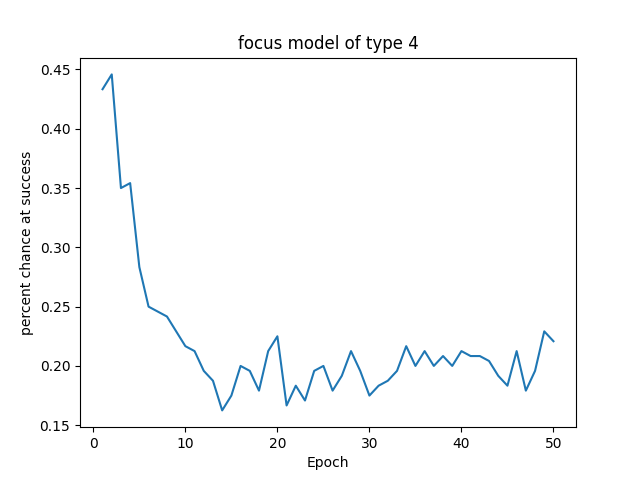
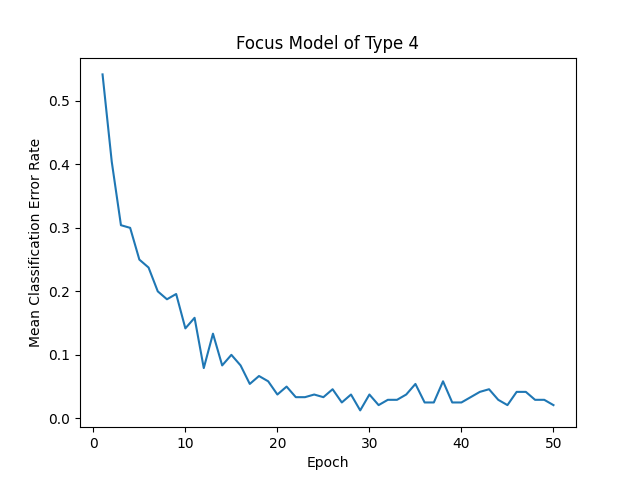
final

diff --git a/divaClasses.py b/divaClasses.py
@@ -1,8 +1,9 @@
 from datetime import timedelta
 from typing import Any, Self, Sequence, Type
-from pyClarion import (Supervised, LeastSquares, Priority, Site, Choice, MLP, Family, Train, Optimizer, Adam,
+from pyClarion import (NumDict, Supervised, LeastSquares, Priority, Site, Choice, MLP, Family, Tanh, Train, Optimizer, Adam,
                        Activation, Layer, Event, Process, ErrorSignal, Sort, Term)
 import sys
+import random
 type D = Family | Sort | Term
 type V = Family | Sort
 type DV = tuple[D, V]
@@ -20,11 +21,8 @@ class divaCost(Supervised):
     
     def update(self, dt: timedelta = timedelta(), priority: Priority=Priority.LEARNING) -> None:
         exp_mask = self.mask[0].exp()
-        if self.correct:
-            # input = self.input[0].mul(self.target[0].abs())
-            main = self.cost.grad(self.input[0], self.target[0], exp_mask)
-        else:
-            main = 0
+        # input = self.input[0].mul(self.target[0].abs())
+        main = self.cost.grad(self.input[0], self.target[0], exp_mask)
         self.system.schedule(self.update, self.main.update(main, grad=True), dt=dt, priority=priority)
 
 class Choose(Choice):
@@ -50,12 +48,14 @@ class Choose(Choice):
             k = Site(self.input.index, {}, max(c1.max()[''], c2.max()['']) - min(c1.min()[''], c2.min()['']))
             beta = Site(self.input.index, {}, 2)
             focus = ((c1.sub(c2)).abs().sub(k[0])).mul(beta[0]).exp()
-            diff1 = (c1.sub(self.input[0])).mul(focus).pow(x=2).sum()
-            diff2 = (c2.sub(self.input[0])).mul(focus).pow(x=2).sum()
+            diff1 = (c1.sub(self.input[0])).mul(focus).pow(x=2).sum()['']
+            diff2 = (c2.sub(self.input[0])).mul(focus).pow(x=2).sum()['']
         else:
-            diff1 = (c1.sub(self.input[0])).pow(x=2).sum()
-            diff2 = (c2.sub(self.input[0])).pow(x=2).sum()
-        decision = self.c1 if diff1[''] < diff2[''] else self.c2
+            diff1 = (c1.sub(self.input[0])).pow(x=2).sum()['']
+            diff2 = (c2.sub(self.input[0])).pow(x=2).sum()['']
+        prob1 = (1/diff1)/((1/diff1) + (1/diff2))
+        
+        decision = self.c1 if random.random() < prob1 else self.c2
         self.system.schedule(
             self.select,
             self.main.update(decision[0]),
@@ -100,9 +100,9 @@ class Diva(MLP):
             layer = self.ilayer
             lkwargs.pop("afunc")
             self.olayer0 = layer >> Layer(f"{name}.olayer0", hi, s2, **lkwargs)
+        self.optimizer1.add(self.ilayer)
         with self.optimizer1:
             self.olayer1 = layer >> Layer(f"{name}.olayer1", hi, s2, **lkwargs)
-        self.optimizer1.add(self.ilayer)
         self.input = Site(self.ilayer.input.index, {}, self.ilayer.input.const)
     
     def resolve(self, event: Event) -> None:

diff --git a/main.py b/main.py
@@ -35,7 +35,7 @@ class Participant(Agent):
         self.d = d
         with self:
             self.choice = Choose("choice", p, (d.io, d.val), mode=mode)
-            self.path1 = Diva('path1', p=p, h=h, s1=(d.io, d.val), layers=[2], afunc=Tanh(), train=Train.ALL, lr=1)
+            self.path1 = Diva('path1', p=p, h=h, s1=(d.io, d.val), layers=[2], afunc=Tanh(), train=Train.ALL, lr=0.1, sd=0.5, init_sd=0.5)
             self.diva1 = divaCost('path1.learn', s=(d.io, d.val))
             self.diva2 = divaCost('path2.learn', s=(d.io, d.val))
             self.input = Input("input", (d.io, d.val))
@@ -127,7 +127,6 @@ stim5 = ['0000', '0011', '0100', '0111', '1000', '1011', '1101', '1110']
 stim6 = ['0000', '0011', '0101', '0110', '1001', '1010', '1100', '1111']
 
 stims = [stim1, stim2, stim3, stim4, stim5, stim6]
-
 averages = []
 for i in range(6):
     result = simulate(stims[i])
@@ -140,18 +139,18 @@ x = (range(1, 51))
 for i in range(6):
     plt.figure()
     plt.plot(x, averages[i])
-    plt.title(f'model of type {i+1}')
+    plt.title(f'Model of Type {i+1}')
     plt.xlabel('Epoch')
-    plt.ylabel('percent chance at success')
+    plt.ylabel('Mean Classification Error Rate')
     plt.savefig(f'graphs/graph_{i+1}.png')
     plt.close()
 
 plt.figure()
 for i in range(6):
     plt.plot(x, averages[i], label=f"type {i+1}")
-plt.title("model for each type")
+plt.title("Model for each Type")
 plt.xlabel('Epoch')
-plt.ylabel('percent chance at success')
+plt.ylabel('Mean Classification Error Rate')
 plt.legend()
 plt.savefig("graphs/graph_all.png")
 plt.close()
@@ -167,18 +166,18 @@ x = (range(1, 51))
 for i in range(6):
     plt.figure()
     plt.plot(x, averages_focus[i])
-    plt.title(f'focus model of type {i+1}')
+    plt.title(f'Focus Model of Type {i+1}')
     plt.xlabel('Epoch')
-    plt.ylabel('percent chance at success')
+    plt.ylabel('Mean Classification Error Rate')
     plt.savefig(f'focus_graphs/focus_graph_{i+1}.png')
     plt.close()
 
 plt.figure()
 for i in range(6):
     plt.plot(x, averages_focus[i], label=f"type {i+1}")
-plt.title("focus model for each type")
+plt.title("Focus Model for each Type")
 plt.xlabel('Epoch')
-plt.ylabel('percent chance at success')
+plt.ylabel('Mean Classification Error Rate')
 plt.legend()
 plt.savefig("focus_graphs/focus_graph_all.png")
 plt.close()
